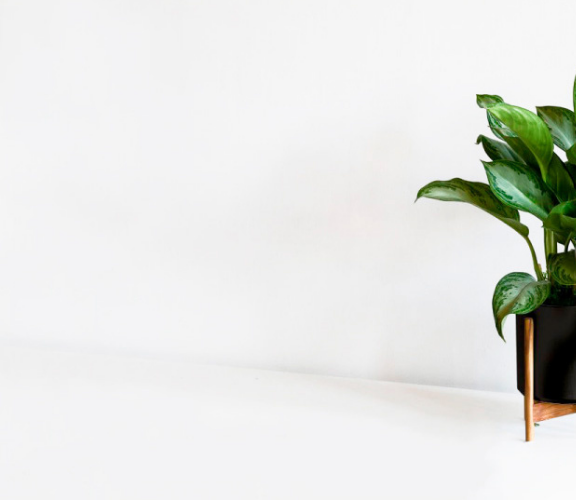
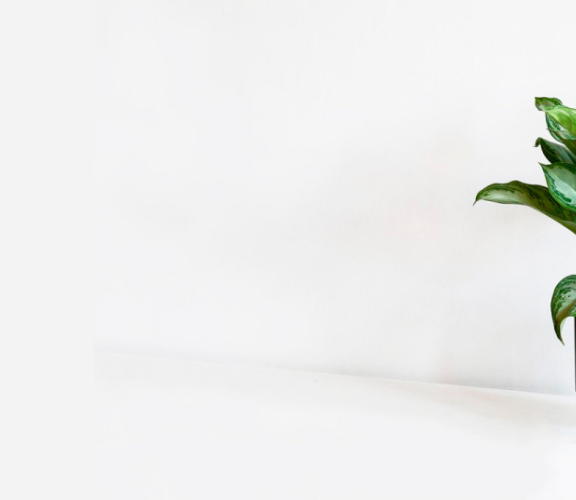
Corrigiendo error de imagen de hero.

Changed region(s): [[0.7188, 0.15, 1.0, 0.9]]

diff --git a/assets/css/main/hero.css b/assets/css/main/hero.css
@@ -1,68 +1,48 @@
 .hero {
-  height: calc(100dvh - 7rem);
-  /*  */
+  height: 35rem;
   background-color: var(--bg-hero);
 
-  .hero-bg-image {
+  @media (min-width: 768px) {
+    & {
+      height: 47rem;
+    }
+  }
+
+  .hero-container {
+    width: 100%;
     height: 100%;
     background: var(--hero-bg-mobile);
     background-size: auto 100%;
-    background-position: right 50% center;
 
-    @media (width >= 640px) {
+    position: relative;
+
+    @media (min-width: 768px) {
       & {
         background: var(--hero-bg-desktop);
-        background-position: center center;
+        background-size: 40%;
       }
     }
 
-    @media (width: 768px) {
-      & {
-        /* height: calc(100vh - 7rem); */
-      }
-    }
-
-    .hero-flex {
+    .hero-container-info {
+      width: 100%;
       height: 100%;
-      padding: 0 2rem;
+      text-align: center;
 
       display: flex;
       align-items: center;
 
-      @media (width >=768px) {
+      @media (min-width: 500px) {
         & {
-          height: 100%;
+          width: 75%;
+          text-align: left;
         }
       }
 
-      @media (width >=1024px) {
-        & {
-          padding: 0;
-        }
-      }
-
-      .hero-info {
-        width: 90%;
-        text-align: center;
-
-        @media (min-width: 640px) {
-          & {
-            width: 100%;
-            text-align: left;
-          }
-        }
-
-        @media (width >=768px) {
-          & {
-            width: 100%;
-            text-align: left;
-          }
-        }
-
+      & > div {
         h1 {
           margin: 0;
           font-size: clamp(4.5rem, 5vw, 5.5rem);
-          /* line-height: 1.3; */
+          line-height: 1.2;
         }
 
         p {
@@ -84,14 +64,7 @@
           width: 18rem;
           margin-inline: auto;
 
-          @media (min-width: 640px) {
-            & {
-              margin: 0;
-              width: 23rem;
-            }
-          }
-
-          @media (min-width: 768px) {
+          @media (min-width: 500px) {
             & {
               margin: 0;
               width: 23rem;

diff --git a/assets/css/style-globals.css b/assets/css/style-globals.css
@@ -21,7 +21,7 @@ ESTILOS GENERALES
   --bg-body: hsl(0, 0%, 95%);
   --bg-box-menu: hsl(105deg 92.93% 75.51%);
   --bg-hover-menu: rgba(0, 0, 0, 0.075);
-  --bg-hero: hsl(0, 0%, 96%);
+  --bg-hero: hsl(240, 9%, 96%);
   --hover-menu-mobile: hsl(132deg 100% 34.64%);
 
   /* icons font awesome */
@@ -38,11 +38,11 @@ ESTILOS GENERALES
 
   /* Baclground images */
   --hero-url-mobile: url("../../image/hero/hero-mobile.png");
-  --hero-url-desktop: url("../../image/hero/hero-desktop.png");
+  --hero-url-desktop: url("../../image/hero/plants.png");
+  --url-subscribe: url("../../image/bg_blog.jpg");
+
   --hero-bg-mobile: var(--bg-hero) var(--hero-url-mobile) no-repeat right center;
   --hero-bg-desktop: var(--bg-hero) var(--hero-url-desktop) no-repeat right center;
-
-  --url-subscribe: url("../../image/bg_blog.jpg");
   --bg-subscribe: var(--bg-hero) var(--url-subscribe) center;
 
   /* FONT FAMILY */
@@ -69,17 +69,12 @@ body{
 
 h1, h2 {
   font-family: var(--font-heading);
-  /* font-family: var(--font-primary); */
   font-weight: 700;
-  line-height: 1.2;
-}
+} 
 
 h2 {
-  /* font-family: var(--font-primary); */
-  font-size: 3rem;
+  font-size: clamp(2.5rem, 5vw, 3rem);
 }
-
-
 
 h4 {
   margin-bottom: .5rem;
@@ -98,12 +93,10 @@ button {
 img {
   width: 100%;
   height: 100%;
-  object-fit: cover;
+  object-fit: cover; 
 }
 
 .container {
-  height: 100vh;
-  
   display: grid;
   grid-template-rows: 7rem auto 20rem;
 
@@ -120,6 +113,7 @@ img {
 .vertical-center {
   width: 100%;
   height: 100%;
+  padding: 0 2rem;
 
   @media (width >= 1024px) {
     & {

diff --git a/assets/css/main/subscribe.css b/assets/css/main/subscribe.css
@@ -13,30 +13,19 @@
     }
   }
 
-  /* @media(min-width: 768px) {
-
-  }
-
-  @media(min-width: 1024px) {
-
-  }
-
-  @media(min-width: 1280px) {
-
-  } */
-
   .container-subscribe {
     padding: 0 2rem;
     text-align: center;
 
-    @media (min-width: 768px) {
+    @media (min-width: 1024px) {
       & {
         padding: 0;
       }
     }
     
     h2 {
-      font-size: clamp(2.5rem, 5vw, 5rem);
+      font-size: clamp(3rem, 5vw, 5rem);
+      line-height: 1.2;
 
       @media (min-width: 768px) {
         & {
@@ -46,7 +35,14 @@
     }
 
     p {
+      font-size: 1.4rem;
       margin: 1rem 0 3rem 0;
+
+      @media (min-width: 768px) {
+        & {
+          font-size: 1.6rem;
+        }
+      }
     }
 
     .btn-subscribe {

diff --git a/index.html b/index.html
@@ -59,8 +59,8 @@
     <main>
       <!-- Hero welcome -->
       <section class="hero">
-        <div class="vertical-center hero-bg-image"> 
-          <div class="hero-flex">
+        <div class="vertical-center hero-container">
+          <div class="hero-container-info">
             <div class="hero-info">
               <h1>¡Bienvenidos a Plants!</h1>
               <p>Tienda online de plantas de interior y exterior <span>con despacho <b>a todo Chile.</b></span></p>
@@ -68,7 +68,7 @@
                 <a href="#productos" aria-label="Botón que direcciona a productos">ver productos</a>
               </div>
             </div>
-          </div>
+          </div> 
         </div> 
       </section> 
 

diff --git a/assets/js/main.js b/assets/js/main.js
@@ -1,6 +1,5 @@
 const btnMenuBar = document.getElementById('btnMenuBar');
 const menu = document.getElementById('menu');
-const header = document.querySelector('header');
 
 btnMenuBar.addEventListener('click', () => {
   menu.classList.toggle('active');
@@ -20,7 +19,10 @@ document.addEventListener('click', (e) => {
 });
 
 window.addEventListener('scroll', () => {
+  const header = document.querySelector('header');
+  
   const viewportHaight = window.innerHeight - (7 * parseFloat(getComputedStyle(document.documentElement).fontSize));
+  
   if (window.scrollY > viewportHaight) {
     header.classList.add('shadow');
   } else {

diff --git a/assets/css/header.css b/assets/css/header.css
@@ -5,18 +5,11 @@ BARRA DE NAVEGACION
 header {
   width: 100%;
   background-color: var(--neutral-white);
-  padding: 0 2rem;
 
   position: sticky;
   top: 0;
   left: 0;
-  z-index: 20;
-
-  @media (width >= 1024px) {
-    & {
-      padding: 0;
-    }
-  }
+  z-index: 2;
 
   .navigation-bar {
     width: 100%;

diff --git a/assets/css/main/products.css b/assets/css/main/products.css
@@ -1,6 +1,4 @@
 .products {
-  padding: 0 2rem;
-
   .container-products {
     .info {
       text-align: center;
@@ -8,6 +6,7 @@
   
     .cards {
       margin-top: 5rem;
+      
       display: grid;
       gap: 2rem;
       grid-template-columns: 1fr;

diff --git a/assets/css/main/blog.css b/assets/css/main/blog.css
@@ -1,15 +1,7 @@
 .blog {
-  padding: 0 2rem;
-  
   @media (min-width: 768px) {
     & {
       height: 35rem;
-    }
-  }
-
-  @media (min-width: 1024px) {
-    & {
-      padding: 0;
     }
   }
 
